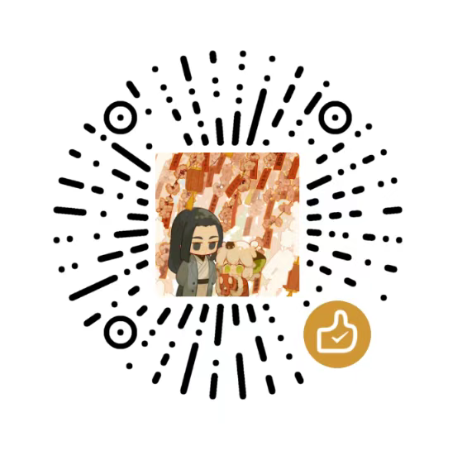
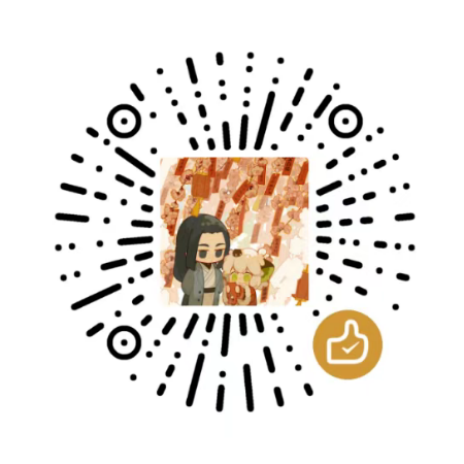
页面宽度，打赏调整

diff --git a/src/config/backgroundWallpaper.ts b/src/config/backgroundWallpaper.ts
@@ -73,17 +73,25 @@ export const backgroundWallpaper: BackgroundWallpaperConfig = {
 			// 是否启用主页横幅文字
 			enable: true,
 			// 主页横幅主标题
-			title: "Peace",
+			title: "WJimi",
 			// 主页横幅主标题字体大小
 			titleSize: "4.5rem",
 			// 主页横幅副标题
 			subtitle: [
-				"In Reddened Chrysalis, I Once Rest",
-				"From Shattered Sky, I Free Fall",
-				"Amidst Silenced Stars, I Deep Sleep",
-				"Upon Lighted Fyrefly, I Soon Gaze",
-				"From Undreamt Night, I Thence Shine",
-				"In Finalized Morrow, I Full Bloom",
+				"Lovely Firefly",
+				//可爱的萤火虫，我曾闪耀,
+				"In Reddened Chrysalis, I Once Rest 在泛红的蛹中,我曾休憩",
+				//在泛红的蛹中，我曾休憩,
+				"From Shattered Sky, I Free Fall 从破碎的天空中,我自由坠落",
+				//从破碎的天空中，我自由坠落,
+				"Amidst Silenced Stars, I Deep Sleep 在沉默的星辰中,我深度沉睡",
+				//在沉默的星辰中，我深度沉睡,
+				"Upon Lighted Fyrefly, I Soon Gaze 在点亮的萤火虫上,我即刻凝视",
+				//在点亮的萤火虫上，我即刻凝视,
+				"From Undreamt Night, I Thence Shine 从未梦见的夜晚中,我从此闪耀",
+				//从未梦见的夜晚中，我从此闪耀,
+				"In Finalized Morrow, I Full Bloom 在既定的明日里,我尽情绽放",
+				//在既定的明日里，我尽情绽放,
 			],
 			// 主页横幅副标题字体大小
 			subtitleSize: "1.5rem",
@@ -93,7 +101,7 @@ export const backgroundWallpaper: BackgroundWallpaperConfig = {
 				// 打字机关闭 → 每次刷新随机显示一条副标题
 				enable: true,
 				// 打字速度（毫秒）
-				speed: 100,
+				speed: 90,
 				// 删除速度（毫秒）
 				deleteSpeed: 50,
 				// 完全显示后的暂停时间（毫秒）

diff --git a/src/config/siteConfig.ts b/src/config/siteConfig.ts
@@ -40,14 +40,14 @@ export const siteConfig: SiteConfig = {
 	// 页面整体宽度（单位：rem）
 	// 数值越大可以让页面内容区域更宽
 	// 在使用单侧栏边栏时，建议调低一些宽度以获得更好的视觉效果。
-	pageWidth: 80,
+	pageWidth: 89,
 
 	// 网站Card样式配置
 	card: {
 		// 是否开启卡片边框和阴影，开启后让网站更有立体感
-		border: false,
+		border: true,
 		// 是否让卡片风格跟随主题色相
-		followTheme: false,
+		followTheme: true,
 	},
 
 	// Favicon 配置
@@ -104,7 +104,7 @@ export const siteConfig: SiteConfig = {
 		// 友链页面开关
 		friends: true,
 		// 打赏页面开关
-		sponsor: false,
+		sponsor: true,
 		// 留言板页面开关，需要配置评论系统
 		guestbook: false,
 		// 番组计划页面开关，含追番、游戏、书籍和音乐
@@ -122,7 +122,7 @@ export const siteConfig: SiteConfig = {
 	},
 
 	// 分类导航栏开关，在首页和归档页顶部显示分类快捷导航
-	categoryBar: true,
+	categoryBar: false,
 
 	// 分类导航栏按钮样式
 	// "pill"：胶囊，主题色浅底圆角
@@ -132,7 +132,7 @@ export const siteConfig: SiteConfig = {
 	// 标签样式，作用于文章列表底部标签、标签页和侧边栏标签
 	// "pill"：胶囊，中性灰底圆角
 	// "rectangle"：矩形，主题色底小圆角
-	tagStyle: "pill",
+	tagStyle: "rectangle",
 
 	// 归档页是否折叠非最新年份文章，禁用后默认展开全部年份
 	foldArticle: true,

diff --git a/src/config/sponsorConfig.ts b/src/config/sponsorConfig.ts
@@ -12,13 +12,13 @@ export const sponsorConfig: SponsorConfig = {
 		"您的打赏将用于服务器维护、内容创作和功能开发，帮助我持续提供优质内容。",
 
 	// 是否显示打赏者列表
-	showSponsorsList: true,
+	showSponsorsList: false,
 
 	// 是否显示评论区，需要先在commentConfig.ts启用评论系统
-	showComment: true,
+	showComment: false,
 
 	// 是否在文章详情页底部显示打赏按钮
-	showButtonInPost: true,
+	showButtonInPost: false,
 
 	// 打赏方式列表
 	methods: [
@@ -34,7 +34,7 @@ export const sponsorConfig: SponsorConfig = {
 		{
 			name: "微信",
 			icon: "fa7-brands:weixin",
-			qrCode: "/assets/images/sponsor/wechat.png",
+			qrCode: "/assets/images/sponsor/min_wechat.png",
 			link: "",
 			description: "使用 微信 扫码打赏",
 			enabled: true,

diff --git a/src/content/posts/SXCTF/SXCTF_WP.md b/src/content/posts/SXCTF/SXCTF_WP.md
@@ -1,14 +1,18 @@
 ---
 title: SXCTF WP
 published: 2026-08-11
-description: SXCTF
+description: SXCTF四校联合友谊赛
 
 tags: [SXCTF, misc,web]
 category: WP
 draft: false
 ---
 
-## 办公室爱情_misc
+[SXCTF平台](http://160.30.231.242:1212/)
+
+# Misc
+
+## 办公室爱情
 
 - 文件：办公室爱情.zip
 
@@ -16,7 +20,7 @@ draft: false
 
 - 描述： flag格式为SXCTF{...}
 
-### 解题步骤
+**解题步骤**
 
 **1.使用WPS打开沃德.docx**
 
@@ -66,7 +70,7 @@ SXCTF{10ve_exCe1_!!!}
 
 - 描述：好像有点像二维码 ... (flag格式为SXCTF{...})
 
-### 解题步骤
+**解题步骤**
 
 修复二维码，反转，颜色的反转，目标：灰色调整为黑色。
 ![Pasted image 20260718112519](../images/image-20260718112519.png)
@@ -90,7 +94,7 @@ SXCTF{10ve_exCe1_!!!}
 - 文件：eeb4696a6a15a45ab7519b15d1ab59ee.png
 - 描述：补充misc的一个简单   flag{佛像名称_XX市}
 
-### 分析步骤
+**分析步骤**
 
 ![eeb4696a6a15a45ab7519b15d1ab59ee](../images/eeb4696a6a15a45ab7519b15d1ab59ee.png)
 
@@ -121,7 +125,7 @@ flag{东林大佛_九江市}
 
 - 描述：F0xm1ao说他不想出题，所以就有了这一题。F0xm1ao说他非常失望，没有人尝试去搜索他的ID
 
-### 分析步骤
+**分析步骤**
 
 1.搜索ID，下载两个文件
 ![image-20260726125433928](../images/image-20260726125433928.png)
@@ -147,7 +151,7 @@ SXCTF{泰州\_迎春东路\_东风南路\_东风北路}
 - 内容：`flag.txt`
 - 描述："我真不知道密码是啥"（flag 格式为 SXCTF{...}）
 
-### 解题步骤
+**解题步骤**
 
 **1. 初看：以为是个密码爆破题**
 
@@ -172,13 +176,15 @@ SXCTF{泰州\_迎春东路\_东风南路\_东风北路}
 
 SXCTF{beCause_nO_PassWOrd}
 
-## 天象馆预约台_web
+# Web
+
+## 天象馆预约台
 
 - 名称：天象馆预约台
 - 描述：这个天象馆的查询似乎有问题？
 - 考点：SQL 注入的报错注入、WAF 关键字拦截绕过
 
-### 解题步骤
+**解题步骤**
 
 #### 1. 首页侦查
 
@@ -331,7 +337,7 @@ flag{f8b31c9c-9e78-4471-aaa4-9dde9c6b60d9}
 - 描述：管理员把秘密配方放在了后台。普通用户登录后只能看到自己的身份，试试看能不能拿到管理员才能看到的内容。
 
 
-### 解题步骤
+**解题步骤**
 
 #### 1. 首页侦查
 
@@ -440,7 +446,7 @@ SXCTF{966edd20-ee49-4f58-9991-85cfc1464f95}
 - 考点：存储型 XSS、管理员 Bot 模拟、`innerHTML` 无过滤导致脚本执行
 - 描述：你也来留个言吧！(flag格式为SXCTF{...})
 
-### 解题步骤
+**解题步骤**
 
 #### 1. 首页侦查
 
@@ -559,7 +565,7 @@ SXCTF{D0oOM_XSS_1s_ez_right?cba853a301dd}
 - 内容：java源文件
 - 描述：网站是怎么判断用户身份的呢?
 
-### 解题步骤
+**解题步骤**
 
 1.一个登录界面![image-20260726140617005](../images/image-20260726140617005.png)
 
